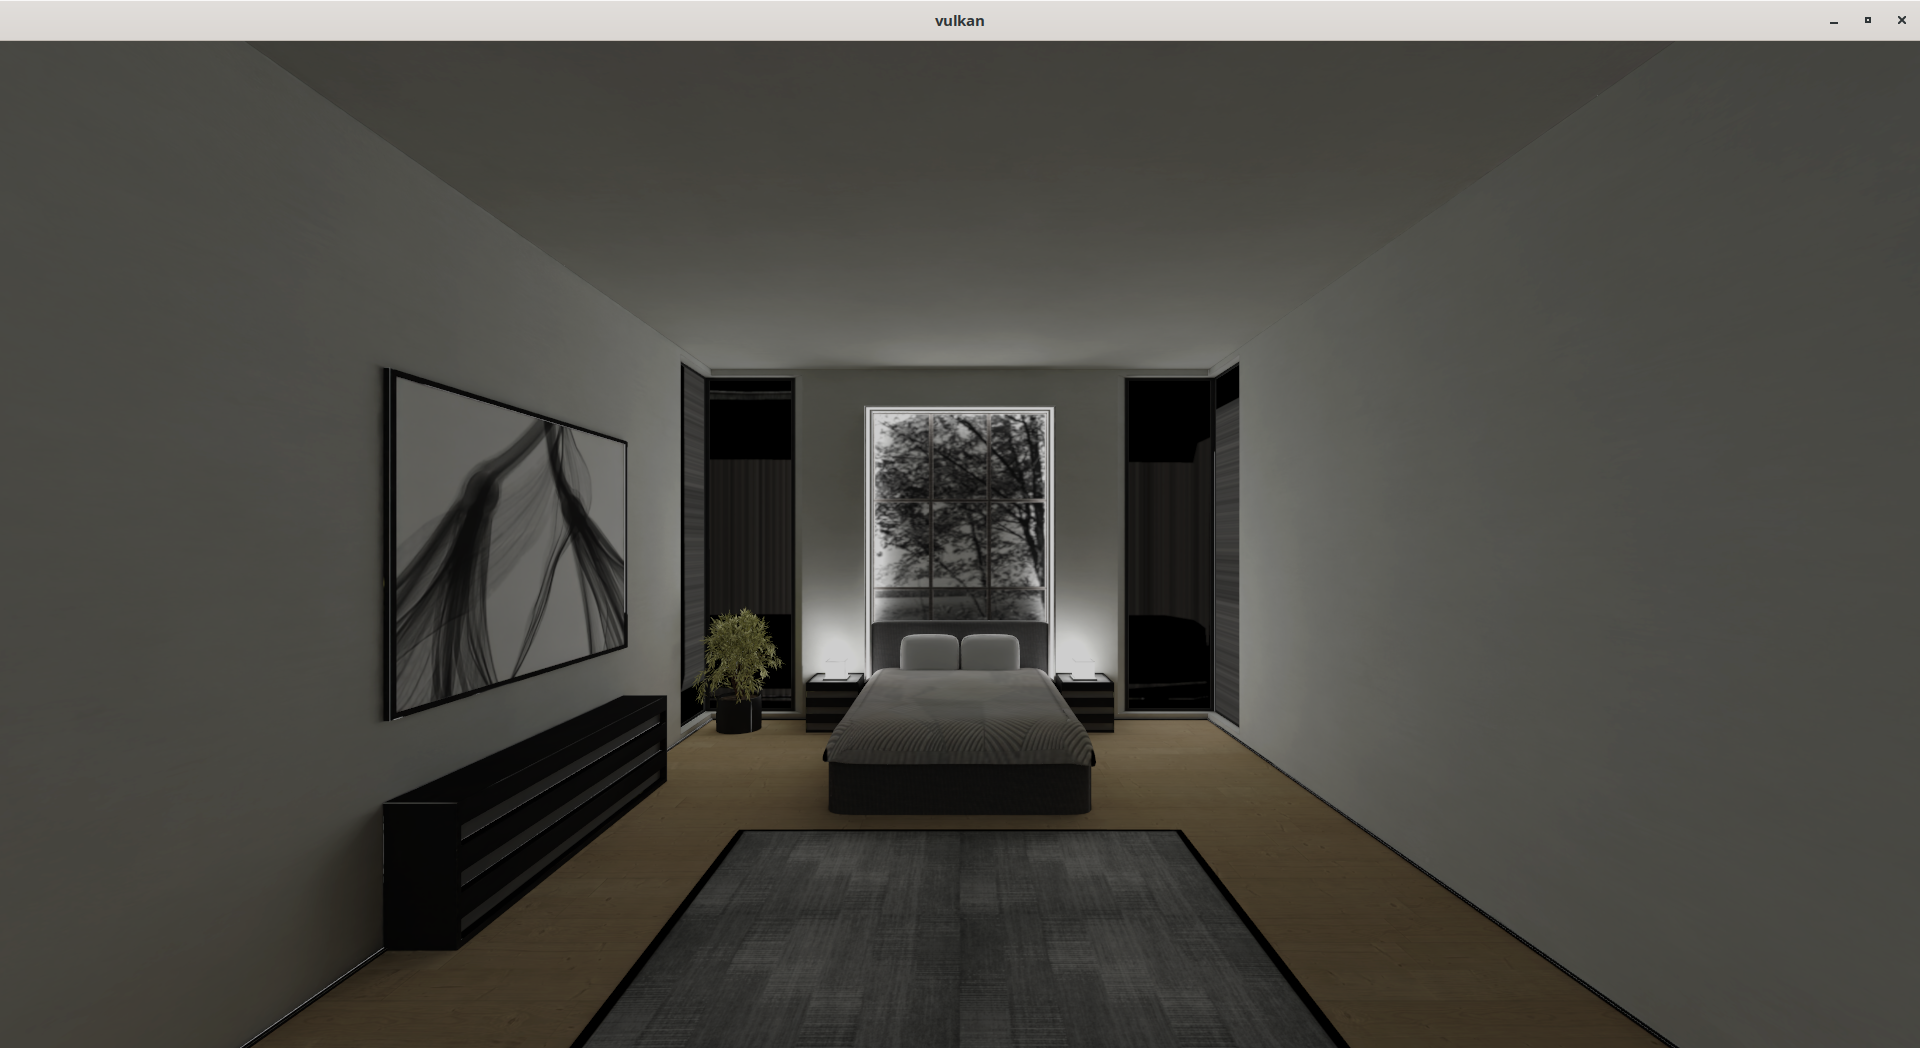
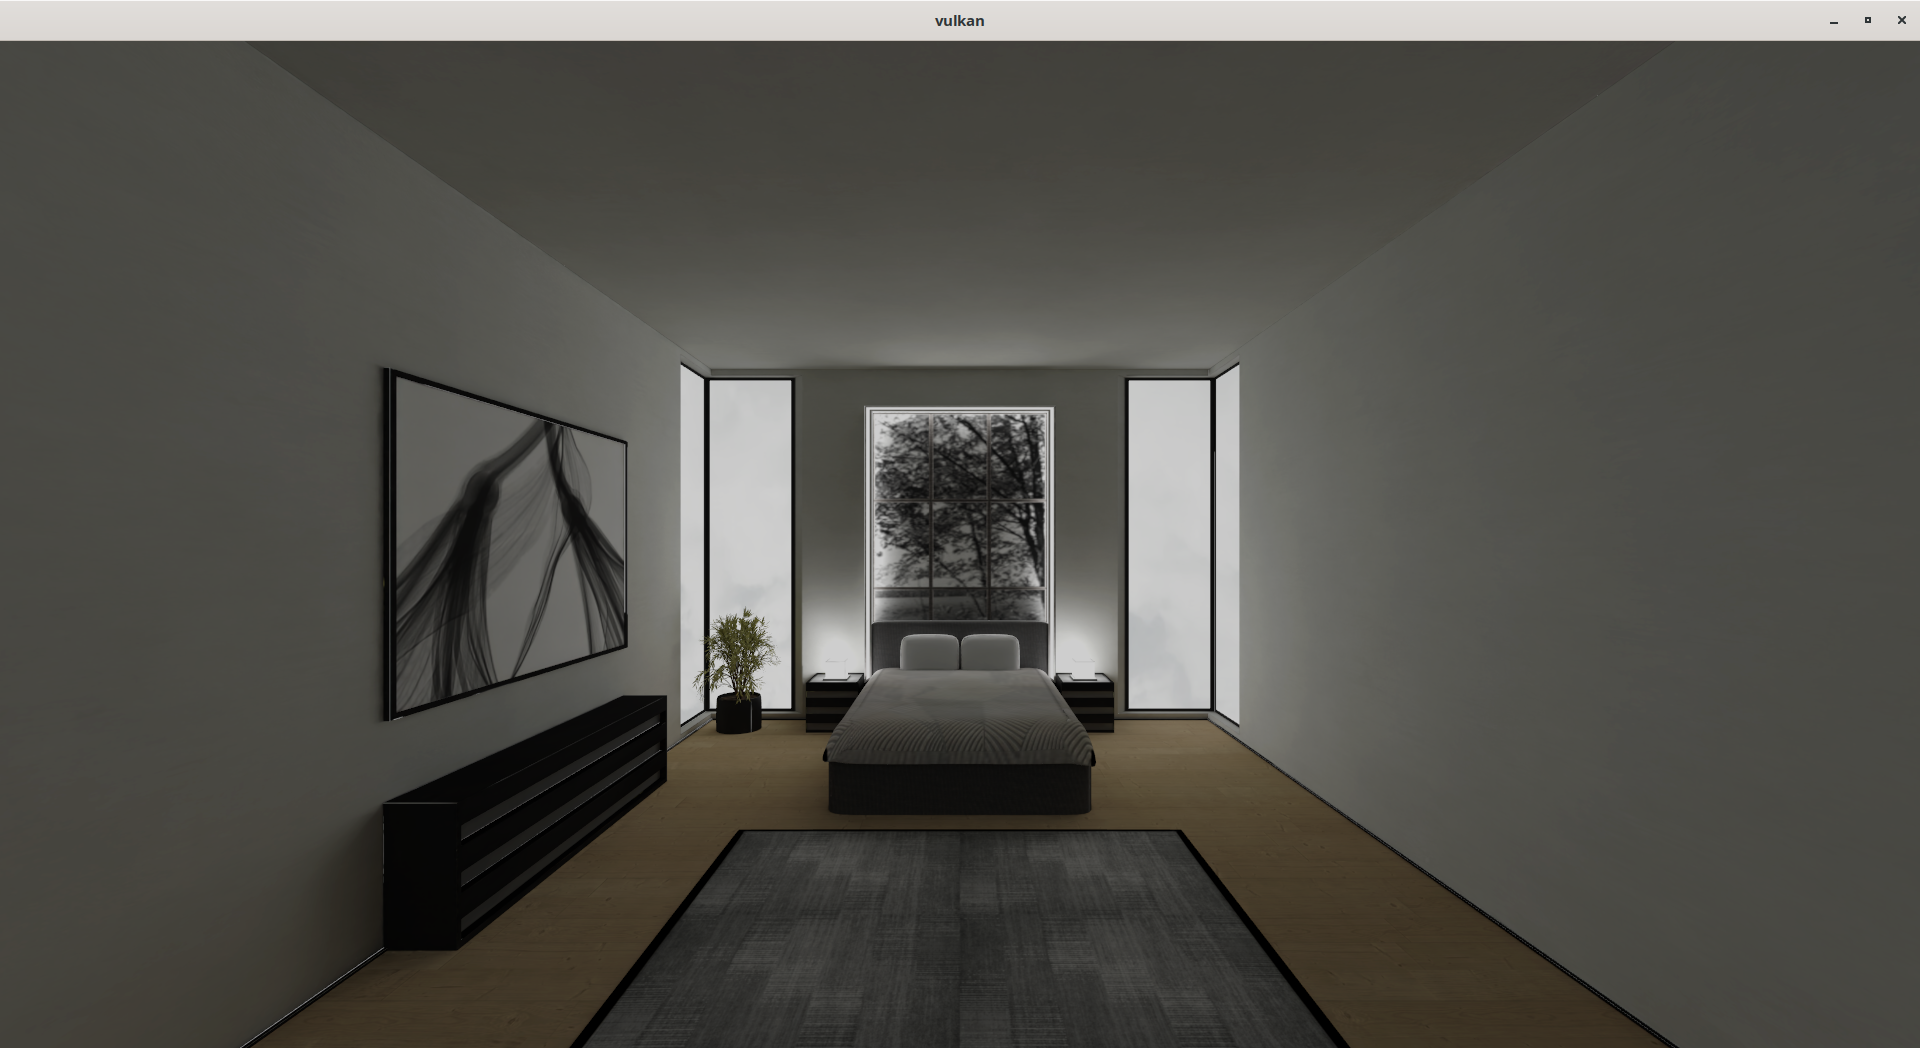
adding transparency sample img

Changed region(s): [[0.5625, 0.3359, 0.6562, 0.7023], [0.3438, 0.3359, 0.4375, 0.7023]]

diff --git a/src/renderer.c b/src/renderer.c
@@ -1665,8 +1665,8 @@ void updateUniformBuffer(State *state, uint32_t currentImage) {
 
 		// Rotation
 		psmat4_identity(&rotation);
-		psmat4_rotation_z(&rotation, (((state->time.tv_sec * 1000000 + state->time.tv_usec)) / 3000000.0f * to_radians(90)));
-		//psmat4_rotation_z(&rotation,  to_radians(135));
+		//psmat4_rotation_z(&rotation, (((state->time.tv_sec * 1000000 + state->time.tv_usec)) / 3000000.0f * to_radians(90)));
+		psmat4_rotation_z(&rotation,  to_radians(135));
 
 		// Scaling
 		psmat4_identity(&scaling);
@@ -1682,7 +1682,7 @@ void updateUniformBuffer(State *state, uint32_t currentImage) {
 
 
 		psmat4_look_at((&state->models[i].ubo.view), (struct vec3[]) {
-			4.0f, 4.0f, 0.0f
+			2.0f, 2.0f, 0.0f
 		}, (struct vec3[]) {
 			-1.0f, -1.0f, -0.0f
 		    }, (struct vec3[]) {
